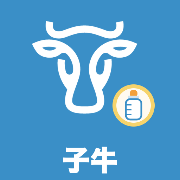
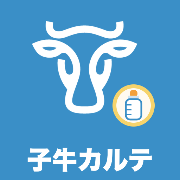
名前を子牛カルテに変更

Changed region(s): [[0.1389, 0.8056, 0.8611, 0.9722]]

diff --git a/calf/index.html b/calf/index.html
@@ -3,11 +3,11 @@
 <head>
   <meta charset="utf-8">
   <meta name="viewport" content="width=device-width, initial-scale=1, viewport-fit=cover">
-  <title>子牛アプリ</title>
+  <title>子牛カルテ</title>
 
   <!-- iPhone：ホーム画面のアイコンと名前 -->
   <link rel="apple-touch-icon" href="apple-touch-icon.png">
-  <meta name="apple-mobile-web-app-title" content="子牛アプリ">
+  <meta name="apple-mobile-web-app-title" content="子牛カルテ">
   <meta name="apple-mobile-web-app-capable" content="yes">
   <meta name="mobile-web-app-capable" content="yes">
   <meta name="apple-mobile-web-app-status-bar-style" content="default">
@@ -15,15 +15,15 @@
   <!-- Android・パソコン用 -->
   <link rel="manifest" href="manifest.json">
   <link rel="icon" type="image/png" href="icon-192.png">
-  <meta name="theme-color" content="#2f7d4f">
+  <meta name="theme-color" content="#2e5f7a">
 
   <style>
-    html, body { margin: 0; height: 100%; background: #f4f3ef; }
+    html, body { margin: 0; height: 100%; background: #f2f6f9; }
     iframe { position: fixed; inset: 0; width: 100%; height: 100%; border: 0; }
   </style>
 </head>
 <body>
-  <!-- 子牛アプリ（GAS）の公開URL -->
+  <!-- 子牛カルテ（GAS）の公開URL -->
   <iframe id="app" src="https://script.google.com/macros/s/AKfycbwBkEq-eb4BktjY-KNIiU4bV5cm-_qYiuE-GDTE8zNL4zTlIxmI7DAbOFDGw5oa8cRW/exec"></iframe>
 </body>
 </html>
